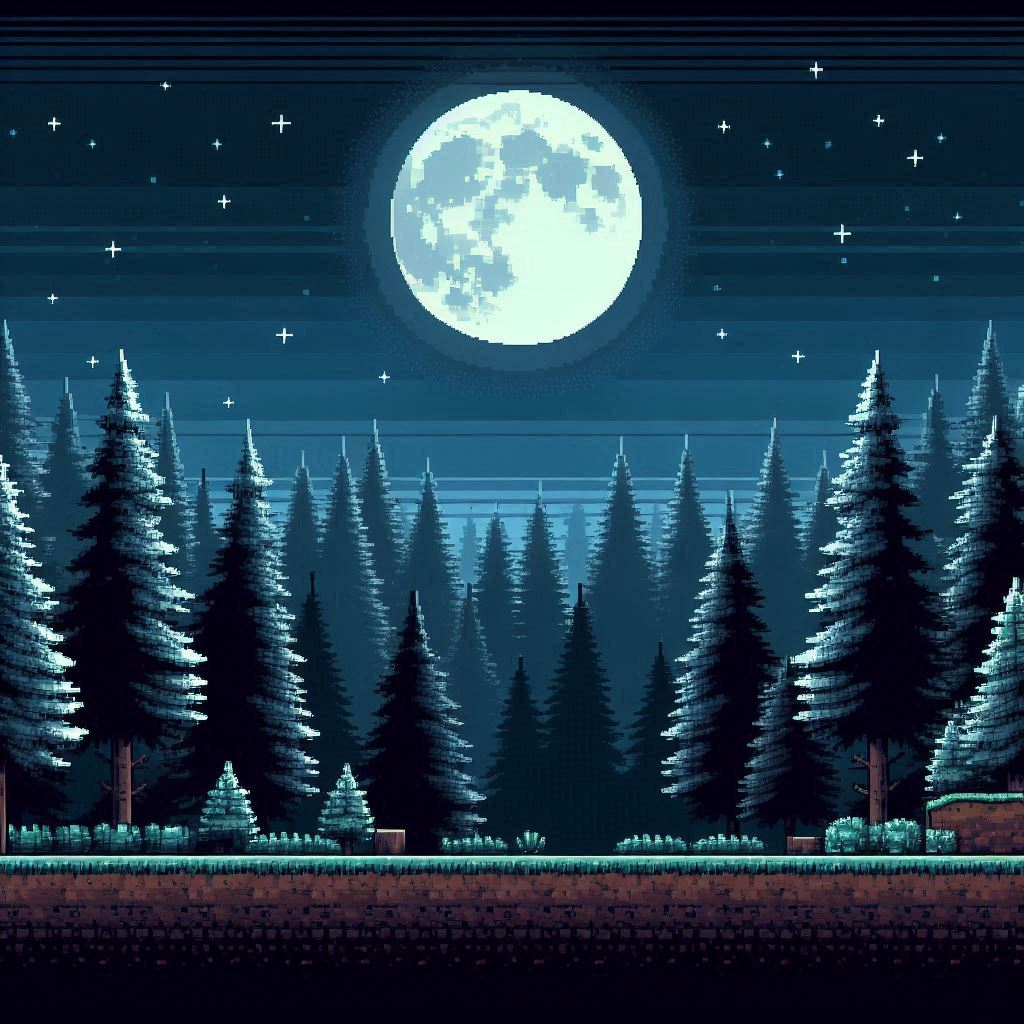
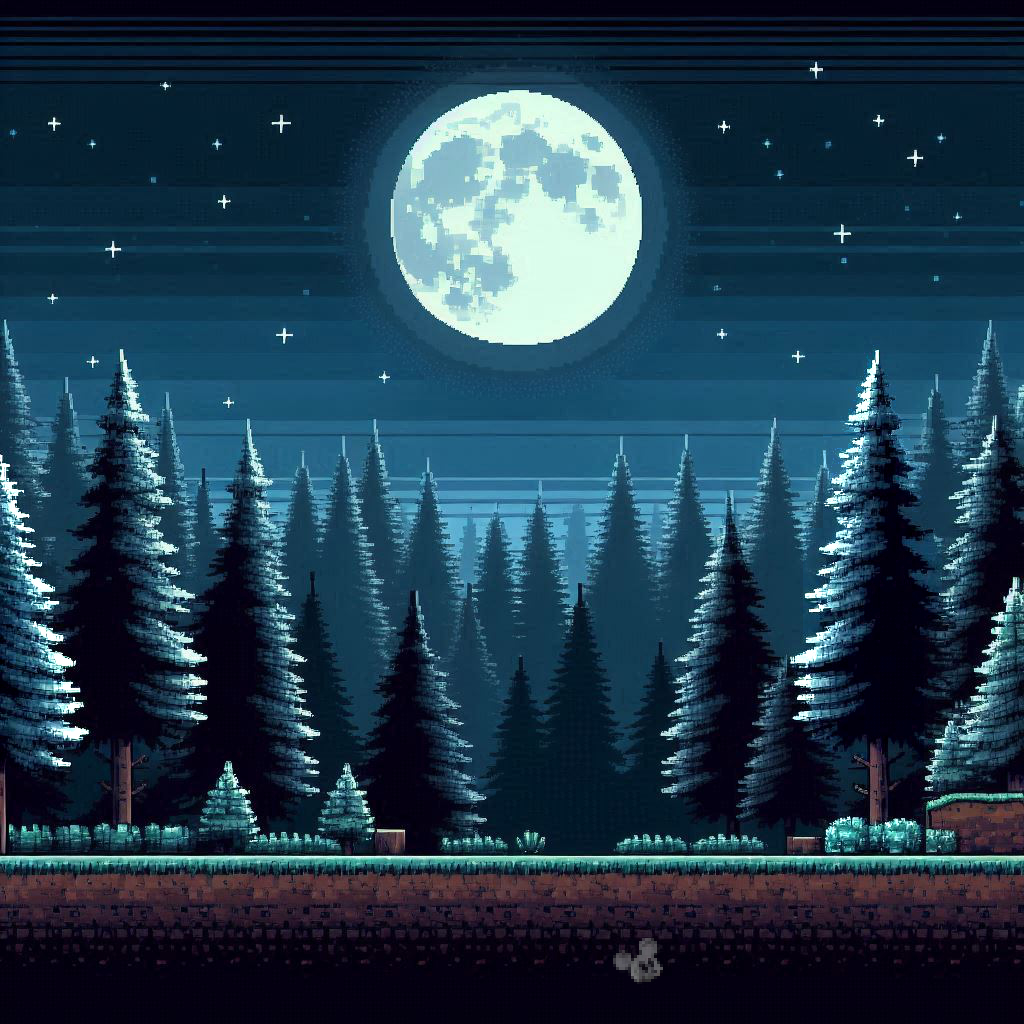
Shadow-effect added

diff --git a/javascript-game/style.css b/javascript-game/style.css
@@ -10,11 +10,21 @@ body, html {
   justify-content: center;
 }
 
-#middlediv {
+#maindiv {
   position: relative;
   width: 100%;
   height: 100%;
-  border: 3px solid green;
+  display: flex;
+  align-items: center;
+  justify-content: center;
+
+  /* background-color: rgb(14, 38, 56); */
+}
+
+#wrapperDiv {
+  position: relative;
+  width: 0;
+  height: 0;
   display: flex;
   align-items: center;
   justify-content: center;
@@ -31,8 +41,9 @@ body, html {
   width: 500px; /* set the desired width */
   height: 400px; /* set the desired height */
   border: 3px solid black;
+  background-image: url(/images/background-images/forest.jpeg);
   /* background-color: rgba(133, 11, 11, 0.5); */
-  background: linear-gradient(rgba(0, 0, 0, 0), rgba(12, 13, 28, 0)), url(/images/background-images/forest.jpeg);
+  /* background: linear-gradient(rgba(0, 0, 0, 0), rgba(12, 13, 28, 0)), url(/images/background-images/forest.jpeg); */
 }
 
 #ufoCanvas {
@@ -49,22 +60,25 @@ body, html {
 	width: 1024px;
 	height: 1024px;
 	/* background-color: rgba(133, 11, 11, 0.5); */
-	background: linear-gradient(rgba(0, 0, 0, 0), rgba(12, 13, 28, 0)), url(/images/background-images/trees-front.png);
+  background-image: url(/images/background-images/trees-front.png);
+	/* background: linear-gradient(rgba(0, 0, 0, 0), rgba(12, 13, 28, 0)), url(/images/background-images/trees-front.png); */
 	z-index: 4;
 	position: absolute;
-	top: 50%;
+	top: 50.5%;
 	left: 50%;
 	transform: translate(-50%, -50%);
-	border: 5px solid rgb(255, 0, 0);
 }
-#middlediv:hover {
-  background: linear-gradient(rgb(25, 47, 155), rgb(57, 57, 109));
-  transition: background-color 2000ms ease-in-out;
+#maindiv:hover {
+
+  background-color: rgb(6, 18, 27);
+/* background: linear-gradient(rgb(25, 47, 155), rgb(57, 57, 109)); */
+  transition: background 1000ms ease-in-out;
 }
 
-#middlediv:not(:hover) {
-  background: linear-gradient(rgb(25, 47, 155), rgb(11, 11, 31));
-  transition: background-color 2000ms ease-in-out;
+#maindiv:not(:hover) {
+  background-color: rgb(14, 38, 56);
+  /* background: linear-gradient(rgb(25, 47, 155), rgb(11, 11, 31)); */
+  transition: background 1000ms ease-in-out;
 }
 
 button {
@@ -79,3 +93,10 @@ button:hover {
   border: 4px solid red;
   transition: border 1000ms ease-in-out;
 }
+
+/* In case we need to add some effect to the whole game canvas */
+#gameCanvas.shadow {
+  filter: brightness(0.3);
+  transition: filter 0.5s ease; /* Adjust the duration and easing here */
+}
+

diff --git a/javascript-game/javascript.js b/javascript-game/javascript.js
@@ -1,4 +1,8 @@
 
+// Adjust elements onLoad to prevent undesired flashing
+// or if you need to copy element's size to another 
+
+
 var htmlElm = document.getElementsByTagName("html")[0];
 var gameCanvas = document.getElementById("gameCanvas");
 var frontCanvas = document.getElementById("frontCanvas");
@@ -15,8 +19,13 @@ document.addEventListener("DOMContentLoaded", function(event) {
     frontCanvas.style.display = "block";
 });
 
+
+// Adjust element size to background size
+
 window.addEventListener('load', function() {
-    var gamecanvas = document.getElementById('gameCanvas');
+
+    var wrapperdiv = this.document.getElementById('wrapperDiv');
+    var gamecanvas = this.document.getElementById('gameCanvas');
     var ufocanvas = this.document.getElementById('ufoCanvas');
     var frontcanvas = this.document.getElementById('frontCanvas');
 
@@ -24,6 +33,8 @@ window.addEventListener('load', function() {
     bgImage.src ='/images/background-images/forest.jpeg'; 
 
     bgImage.onload = function() {
+        wrapperdiv.style.height = bgImage.width + 'px';
+
         gamecanvas.style.width = bgImage.width + 'px';
         gamecanvas.style.height = bgImage.height + 'px';
         ufocanvas.style.width = bgImage.width + 'px';

diff --git a/javascript-game/guy.js b/javascript-game/guy.js
@@ -50,8 +50,21 @@ function controlPlayerX(positionX) {
   else {
     return positionX;
   }
-
 }
+
+function drawWithShadow(x) {
+  const screenWidth = canvas.width;
+  const leftMargin = 40; // Margin for the left side
+  const rightMargin = 120; // Margin for the right side
+
+  if (x < leftMargin || x > screenWidth - rightMargin) {
+    ctx.filter = 'brightness(0.3)'; // Apply shadow effect
+  } else {
+    ctx.filter = 'none'; // Remove shadow effect
+  }
+}
+
+
 function drawAnimatedPlayerImage(x, y) {
   // INFO: Clear the drawn image in one frame using the area defined with parameters:
   ctx.clearRect(x, y, playerWidth, playerHeight);
@@ -95,6 +108,9 @@ function drawAnimatedPlayerImage(x, y) {
   }
 
   ctx.save();
+
+  drawWithShadow(x);
+
   if (!isMoving) {
     if (lookingLeft) {
       ctx.scale(1, 1);

diff --git a/javascript-game/index.html b/javascript-game/index.html
@@ -16,15 +16,14 @@
     <script src="input.js" type="module"></script>
 
 </head>
-
 <body>
-    <div id="middlediv">
+    <div id="maindiv">
         <!-- <button onclick="DivController()">Press here!</button> -->
-
+        <div id="wrapperDiv">
         <canvas id="gameCanvas"></canvas>
         <canvas id="ufoCanvas"> </canvas>
         <canvas id="frontCanvas"></canvas>
-
+        </div>
     </div>
 </body>
 </html>
